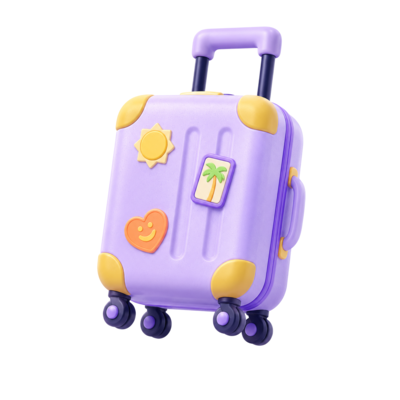
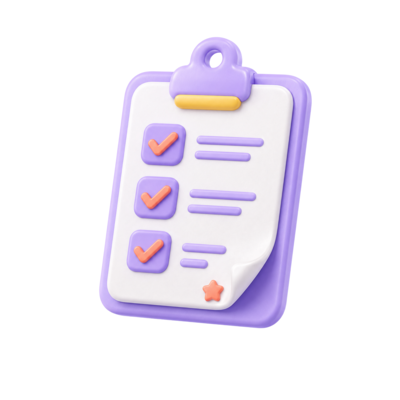
Tighten Сфера digest layout to match Figma
Hero now matches the Figma composition: logos in a top row, large
composite illustration (suitcase + hat + coconut drink) in the middle,
«Привет!» headline at the bottom. Replaces the lonely cloud with the
right assets in the hero and the checklist promo (clipboard-with-checks
illustration). Avatar+role+name in each expert block laid out as
avatar-left / chips-right via inline table inside mj-text. Bumps the gap
between expert cards in «Про отпуск» to 36px and События card radius to
24px to match the source.

Changed region(s): [[0.24, 0.06, 0.78, 0.87]]

diff --git a/emails/dist/main.html b/emails/dist/main.html
@@ -59,9 +59,14 @@
     <![endif]-->
   <style type="text/css">
     @media only screen and (min-width:480px) {
-      .mj-column-per-50 {
-        width: 50% !important;
-        max-width: 50%;
+      .mj-column-per-40 {
+        width: 40% !important;
+        max-width: 40%;
+      }
+
+      .mj-column-per-60 {
+        width: 60% !important;
+        max-width: 60%;
       }
 
       .mj-column-per-100 {
@@ -88,13 +93,23 @@
         width: 38% !important;
         max-width: 38%;
       }
+
+      .mj-column-per-50 {
+        width: 50% !important;
+        max-width: 50%;
+      }
     }
 
   </style>
   <style media="screen and (min-width:480px)">
-    .moz-text-html .mj-column-per-50 {
-      width: 50% !important;
-      max-width: 50%;
+    .moz-text-html .mj-column-per-40 {
+      width: 40% !important;
+      max-width: 40%;
+    }
+
+    .moz-text-html .mj-column-per-60 {
+      width: 60% !important;
+      max-width: 60%;
     }
 
     .moz-text-html .mj-column-per-100 {
@@ -120,6 +135,11 @@
     .moz-text-html .mj-column-per-38 {
       width: 38% !important;
       max-width: 38%;
+    }
+
+    .moz-text-html .mj-column-per-50 {
+      width: 50% !important;
+      max-width: 50%;
     }
 
   </style>
@@ -172,19 +192,19 @@
       <table align="center" border="0" cellpadding="0" cellspacing="0" role="presentation" style="background:#ffffff;background-color:#ffffff;width:100%;border-collapse:separate;">
         <tbody>
           <tr>
-            <td style="border-radius:24px;direction:ltr;font-size:0px;padding:24px 24px 24px 24px;text-align:center;">
-              <!--[if mso | IE]><table role="presentation" border="0" cellpadding="0" cellspacing="0"><tr><td class="" width="600px" ><table align="center" border="0" cellpadding="0" cellspacing="0" class="" role="presentation" style="width:552px;" width="552" ><tr><td style="line-height:0px;font-size:0px;mso-line-height-rule:exactly;"><![endif]-->
-              <div style="margin:0px auto;max-width:552px;">
+            <td style="border-radius:24px;direction:ltr;font-size:0px;padding:32px 32px 24px 32px;text-align:center;">
+              <!--[if mso | IE]><table role="presentation" border="0" cellpadding="0" cellspacing="0"><tr><td class="" width="600px" ><table align="center" border="0" cellpadding="0" cellspacing="0" class="" role="presentation" style="width:536px;" width="536" ><tr><td style="line-height:0px;font-size:0px;mso-line-height-rule:exactly;"><![endif]-->
+              <div style="margin:0px auto;max-width:536px;">
                 <table align="center" border="0" cellpadding="0" cellspacing="0" role="presentation" style="width:100%;">
                   <tbody>
                     <tr>
                       <td style="direction:ltr;font-size:0px;padding:0 0 16px 0;text-align:center;">
-                        <!--[if mso | IE]><table role="presentation" border="0" cellpadding="0" cellspacing="0"><tr><td class="" style="vertical-align:middle;width:276px;" ><![endif]-->
-                        <div class="mj-column-per-50 mj-outlook-group-fix" style="font-size:0px;text-align:left;direction:ltr;display:inline-block;vertical-align:middle;width:100%;">
+                        <!--[if mso | IE]><table role="presentation" border="0" cellpadding="0" cellspacing="0"><tr><td class="" style="vertical-align:middle;width:214.4px;" ><![endif]-->
+                        <div class="mj-column-per-40 mj-outlook-group-fix" style="font-size:0px;text-align:left;direction:ltr;display:inline-block;vertical-align:middle;width:100%;">
                           <table border="0" cellpadding="0" cellspacing="0" role="presentation" style="vertical-align:middle;" width="100%">
                             <tbody>
                               <tr>
-                                <td align="left" style="font-size:0px;padding:0 0 16px 0;word-break:break-word;">
+                                <td align="left" style="font-size:0px;padding:0;word-break:break-word;">
                                   <table border="0" cellpadding="0" cellspacing="0" role="presentation" style="border-collapse:collapse;border-spacing:0px;">
                                     <tbody>
                                       <tr>
@@ -196,38 +216,20 @@
                                   </table>
                                 </td>
                               </tr>
-                              <tr>
-                                <td align="left" style="font-size:0px;padding:16px 0 0 0;word-break:break-word;">
-                                  <div style="font-family:Arial, Helvetica, sans-serif;font-size:42px;font-weight:bold;line-height:1;text-align:left;color:rgba(0,0,0,0.8);">Привет!</div>
-                                </td>
-                              </tr>
                             </tbody>
                           </table>
                         </div>
-                        <!--[if mso | IE]></td><td class="" style="vertical-align:middle;width:276px;" ><![endif]-->
-                        <div class="mj-column-per-50 mj-outlook-group-fix" style="font-size:0px;text-align:left;direction:ltr;display:inline-block;vertical-align:middle;width:100%;">
+                        <!--[if mso | IE]></td><td class="" style="vertical-align:middle;width:321.6px;" ><![endif]-->
+                        <div class="mj-column-per-60 mj-outlook-group-fix" style="font-size:0px;text-align:left;direction:ltr;display:inline-block;vertical-align:middle;width:100%;">
                           <table border="0" cellpadding="0" cellspacing="0" role="presentation" style="vertical-align:middle;" width="100%">
                             <tbody>
-                              <tr>
-                                <td align="right" style="font-size:0px;padding:0 0 8px 0;word-break:break-word;">
-                                  <table border="0" cellpadding="0" cellspacing="0" role="presentation" style="border-collapse:collapse;border-spacing:0px;">
-                                    <tbody>
-                                      <tr>
-                                        <td style="width:140px;">
-                                          <img alt="Сфера" src="../assets/logo-sfera.png" style="border:0;display:block;outline:none;text-decoration:none;height:auto;width:100%;font-size:13px;" width="140" height="auto" />
-                                        </td>
-                                      </tr>
-                                    </tbody>
-                                  </table>
-                                </td>
-                              </tr>
                               <tr>
                                 <td align="right" style="font-size:0px;padding:0;word-break:break-word;">
                                   <table border="0" cellpadding="0" cellspacing="0" role="presentation" style="border-collapse:collapse;border-spacing:0px;">
                                     <tbody>
                                       <tr>
-                                        <td style="width:220px;">
-                                          <img alt="Иллюстрация — лето в Сфере" src="../assets/hero.png" style="border:0;display:block;outline:none;text-decoration:none;height:auto;width:100%;font-size:13px;" width="220" height="auto" />
+                                        <td style="width:140px;">
+                                          <img alt="Сфера" src="../assets/logo-sfera.png" style="border:0;display:block;outline:none;text-decoration:none;height:auto;width:100%;font-size:13px;" width="140" height="auto" />
                                         </td>
                                       </tr>
                                     </tbody>
@@ -243,13 +245,69 @@
                   </tbody>
                 </table>
               </div>
-              <!--[if mso | IE]></td></tr></table></td></tr><tr><td class="" width="600px" ><table align="center" border="0" cellpadding="0" cellspacing="0" class="" role="presentation" style="width:552px;" width="552" ><tr><td style="line-height:0px;font-size:0px;mso-line-height-rule:exactly;"><![endif]-->
-              <div style="margin:0px auto;max-width:552px;">
+              <!--[if mso | IE]></td></tr></table></td></tr><tr><td class="" width="600px" ><table align="center" border="0" cellpadding="0" cellspacing="0" class="" role="presentation" style="width:536px;" width="536" ><tr><td style="line-height:0px;font-size:0px;mso-line-height-rule:exactly;"><![endif]-->
+              <div style="margin:0px auto;max-width:536px;">
+                <table align="center" border="0" cellpadding="0" cellspacing="0" role="presentation" style="width:100%;">
+                  <tbody>
+                    <tr>
+                      <td style="direction:ltr;font-size:0px;padding:0;text-align:center;">
+                        <!--[if mso | IE]><table role="presentation" border="0" cellpadding="0" cellspacing="0"><tr><td class="" style="vertical-align:top;width:536px;" ><![endif]-->
+                        <div class="mj-column-per-100 mj-outlook-group-fix" style="font-size:0px;text-align:left;direction:ltr;display:inline-block;vertical-align:top;width:100%;">
+                          <table border="0" cellpadding="0" cellspacing="0" role="presentation" style="vertical-align:top;" width="100%">
+                            <tbody>
+                              <tr>
+                                <td align="center" style="font-size:0px;padding:0;word-break:break-word;">
+                                  <table border="0" cellpadding="0" cellspacing="0" role="presentation" style="border-collapse:collapse;border-spacing:0px;">
+                                    <tbody>
+                                      <tr>
+                                        <td style="width:320px;">
+                                          <img alt="Иллюстрация — лето в Сфере" src="../assets/hero.png" style="border:0;display:block;outline:none;text-decoration:none;height:auto;width:100%;font-size:13px;" width="320" height="auto" />
+                                        </td>
+                                      </tr>
+                                    </tbody>
+                                  </table>
+                                </td>
+                              </tr>
+                            </tbody>
+                          </table>
+                        </div>
+                        <!--[if mso | IE]></td></tr></table><![endif]-->
+                      </td>
+                    </tr>
+                  </tbody>
+                </table>
+              </div>
+              <!--[if mso | IE]></td></tr></table></td></tr><tr><td class="" width="600px" ><table align="center" border="0" cellpadding="0" cellspacing="0" class="" role="presentation" style="width:536px;" width="536" ><tr><td style="line-height:0px;font-size:0px;mso-line-height-rule:exactly;"><![endif]-->
+              <div style="margin:0px auto;max-width:536px;">
+                <table align="center" border="0" cellpadding="0" cellspacing="0" role="presentation" style="width:100%;">
+                  <tbody>
+                    <tr>
+                      <td style="direction:ltr;font-size:0px;padding:0 0 8px 0;text-align:center;">
+                        <!--[if mso | IE]><table role="presentation" border="0" cellpadding="0" cellspacing="0"><tr><td class="" style="vertical-align:top;width:536px;" ><![endif]-->
+                        <div class="mj-column-per-100 mj-outlook-group-fix" style="font-size:0px;text-align:left;direction:ltr;display:inline-block;vertical-align:top;width:100%;">
+                          <table border="0" cellpadding="0" cellspacing="0" role="presentation" style="vertical-align:top;" width="100%">
+                            <tbody>
+                              <tr>
+                                <td align="left" style="font-size:0px;padding:8px 0 0 0;word-break:break-word;">
+                                  <div style="font-family:Arial, Helvetica, sans-serif;font-size:42px;font-weight:bold;line-height:1;text-align:left;color:rgba(0,0,0,0.8);">Привет!</div>
+                                </td>
+                              </tr>
+                            </tbody>
+                          </table>
+                        </div>
+                        <!--[if mso | IE]></td></tr></table><![endif]-->
+                      </td>
+                    </tr>
+                  </tbody>
+                </table>
+              </div>
+              <!--[if mso | IE]></td></tr></table></td></tr><tr><td class="" width="600px" ><table align="center" border="0" cellpadding="0" cellspacing="0" class="" role="presentation" style="width:536px;" width="536" ><tr><td style="line-height:0px;font-size:0px;mso-line-height-rule:exactly;"><![endif]-->
+              <div style="margin:0px auto;max-width:536px;">
                 <table align="center" border="0" cellpadding="0" cellspacing="0" role="presentation" style="width:100%;">
                   <tbody>
                     <tr>
                       <td style="direction:ltr;font-size:0px;padding:0 0 18px 0;text-align:center;">
-                        <!--[if mso | IE]><table role="presentation" border="0" cellpadding="0" cellspacing="0"><tr><td class="" style="vertical-align:top;width:552px;" ><![endif]-->
+                        <!--[if mso | IE]><table role="presentation" border="0" cellpadding="0" cellspacing="0"><tr><td class="" style="vertical-align:top;width:536px;" ><![endif]-->
                         <div class="mj-column-per-100 mj-outlook-group-fix" style="font-size:0px;text-align:left;direction:ltr;display:inline-block;vertical-align:top;width:100%;">
                           <table border="0" cellpadding="0" cellspacing="0" role="presentation" style="vertical-align:top;" width="100%">
                             <tbody>
@@ -280,13 +338,13 @@
                   </tbody>
                 </table>
               </div>
-              <!--[if mso | IE]></td></tr></table></td></tr><tr><td class="" width="600px" ><table align="center" border="0" cellpadding="0" cellspacing="0" class="" role="presentation" style="width:552px;" width="552" bgcolor="#f0e9ff" ><tr><td style="line-height:0px;font-size:0px;mso-line-height-rule:exactly;"><![endif]-->
-              <div style="background:#f0e9ff;background-color:#f0e9ff;margin:0px auto;max-width:552px;border-radius:20px;overflow:hidden;">
+              <!--[if mso | IE]></td></tr></table></td></tr><tr><td class="" width="600px" ><table align="center" border="0" cellpadding="0" cellspacing="0" class="" role="presentation" style="width:536px;" width="536" bgcolor="#f0e9ff" ><tr><td style="line-height:0px;font-size:0px;mso-line-height-rule:exactly;"><![endif]-->
+              <div style="background:#f0e9ff;background-color:#f0e9ff;margin:0px auto;max-width:536px;border-radius:20px;overflow:hidden;">
                 <table align="center" border="0" cellpadding="0" cellspacing="0" role="presentation" style="background:#f0e9ff;background-color:#f0e9ff;width:100%;border-collapse:separate;">
                   <tbody>
                     <tr>
                       <td style="border-radius:20px;direction:ltr;font-size:0px;padding:20px;text-align:center;">
-                        <!--[if mso | IE]><table role="presentation" border="0" cellpadding="0" cellspacing="0"><tr><td class="" style="vertical-align:top;width:512px;" ><![endif]-->
+                        <!--[if mso | IE]><table role="presentation" border="0" cellpadding="0" cellspacing="0"><tr><td class="" style="vertical-align:top;width:496px;" ><![endif]-->
                         <div class="mj-column-per-100 mj-outlook-group-fix" style="font-size:0px;text-align:left;direction:ltr;display:inline-block;vertical-align:top;width:100%;">
                           <table border="0" cellpadding="0" cellspacing="0" role="presentation" style="vertical-align:top;" width="100%">
                             <tbody>
@@ -371,7 +429,7 @@
                 <table align="center" border="0" cellpadding="0" cellspacing="0" role="presentation" style="width:100%;">
                   <tbody>
                     <tr>
-                      <td style="direction:ltr;font-size:0px;padding:0 4px 16px 4px;text-align:center;">
+                      <td style="direction:ltr;font-size:0px;padding:0 4px 36px 4px;text-align:center;">
                         <!--[if mso | IE]><table role="presentation" border="0" cellpadding="0" cellspacing="0"><tr><td class="" style="vertical-align:top;width:552px;" ><![endif]-->
                         <div class="mj-column-per-100 mj-outlook-group-fix" style="font-size:0px;text-align:left;direction:ltr;display:inline-block;vertical-align:top;width:100%;">
                           <table border="0" cellpadding="0" cellspacing="0" role="presentation" style="vertical-align:top;" width="100%">
@@ -409,25 +467,19 @@
                               </tr>
                               <tr>
                                 <td align="left" style="font-size:0px;padding:0 0 12px 0;word-break:break-word;">
-                                  <table border="0" cellpadding="0" cellspacing="0" role="presentation" style="border-collapse:collapse;border-spacing:0px;">
-                                    <tbody>
+                                  <div style="font-family:Arial, Helvetica, sans-serif;font-size:16px;line-height:1.4;text-align:left;color:#1f2426;">
+                                    <table cellpadding="0" cellspacing="0" role="presentation" style="width:100%;">
                                       <tr>
-                                        <td style="width:96px;">
-                                          <img alt="Ольга Кирюточкина" src="../assets/avatar-olga.png" style="border:0;border-radius:48px;display:block;outline:none;text-decoration:none;height:auto;width:100%;font-size:13px;" width="96" height="auto" />
+                                        <td valign="top" width="112" style="padding:0 14px 0 0;">
+                                          <img src="../assets/avatar-olga.png" alt="Ольга Кирюточкина" width="96" height="96" style="display:block;border-radius:48px;border:0;" />
+                                        </td>
+                                        <td valign="middle">
+                                          <div style="margin:0 0 6px 0;"><span class="chip">Руководитель группы развития и оптимизации проектов</span></div>
+                                          <div><span class="chip">Ольга Кирюточкина</span></div>
                                         </td>
                                       </tr>
-                                    </tbody>
-                                  </table>
-                                </td>
-                              </tr>
-                              <tr>
-                                <td align="left" style="font-size:0px;padding:0 0 4px 0;word-break:break-word;">
-                                  <div style="font-family:Arial, Helvetica, sans-serif;font-size:16px;line-height:1.4;text-align:left;color:#1f2426;"><span class="chip">Руководитель группы развития и оптимизации проектов</span></div>
-                                </td>
-                              </tr>
-                              <tr>
-                                <td align="left" style="font-size:0px;padding:0 0 12px 0;word-break:break-word;">
-                                  <div style="font-family:Arial, Helvetica, sans-serif;font-size:16px;line-height:1.4;text-align:left;color:#1f2426;"><span class="chip">Ольга Кирюточкина</span></div>
+                                    </table>
+                                  </div>
                                 </td>
                               </tr>
                               <tr>
@@ -496,7 +548,7 @@
                 <table align="center" border="0" cellpadding="0" cellspacing="0" role="presentation" style="width:100%;">
                   <tbody>
                     <tr>
-                      <td style="direction:ltr;font-size:0px;padding:16px 0 0 0;text-align:center;">
+                      <td style="direction:ltr;font-size:0px;padding:36px 0 0 0;text-align:center;">
                         <!--[if mso | IE]><table role="presentation" border="0" cellpadding="0" cellspacing="0"><tr><td class="" style="vertical-align:top;width:560px;" ><![endif]-->
                         <div class="mj-column-per-100 mj-outlook-group-fix" style="font-size:0px;text-align:left;direction:ltr;display:inline-block;vertical-align:top;width:100%;">
                           <table border="0" cellpadding="0" cellspacing="0" role="presentation" style="vertical-align:top;" width="100%">
@@ -533,26 +585,20 @@
                                 </td>
                               </tr>
                               <tr>
-                                <td align="left" style="font-size:0px;padding:0 0 12px 0;word-break:break-word;">
-                                  <table border="0" cellpadding="0" cellspacing="0" role="presentation" style="border-collapse:collapse;border-spacing:0px;">
-                                    <tbody>
+                                <td align="left" style="font-size:0px;padding:0 0 16px 0;word-break:break-word;">
+                                  <div style="font-family:Arial, Helvetica, sans-serif;font-size:16px;line-height:1.4;text-align:left;color:#1f2426;">
+                                    <table cellpadding="0" cellspacing="0" role="presentation" style="width:100%;">
                                       <tr>
-                                        <td style="width:96px;">
-                                          <img alt="Сергей Гринченко" src="../assets/avatar-sergey.png" style="border:0;border-radius:48px;display:block;outline:none;text-decoration:none;height:auto;width:100%;font-size:13px;" width="96" height="auto" />
+                                        <td valign="top" width="112" style="padding:0 14px 0 0;">
+                                          <img src="../assets/avatar-sergey.png" alt="Сергей Гринченко" width="96" height="96" style="display:block;border-radius:48px;border:0;" />
+                                        </td>
+                                        <td valign="middle">
+                                          <div style="margin:0 0 6px 0;"><span class="chip">Архитектор решений Яндекс 360, руководитель группы партнёрской и региональной архитектуры</span></div>
+                                          <div><span class="chip">Сергей Гринченко</span></div>
                                         </td>
                                       </tr>
-                                    </tbody>
-                                  </table>
-                                </td>
-                              </tr>
-                              <tr>
-                                <td align="left" style="font-size:0px;padding:0 0 4px 0;word-break:break-word;">
-                                  <div style="font-family:Arial, Helvetica, sans-serif;font-size:16px;line-height:1.4;text-align:left;color:#1f2426;"><span class="chip">Архитектор решений Яндекс 360, руководитель группы партнёрской и региональной архитектуры</span></div>
-                                </td>
-                              </tr>
-                              <tr>
-                                <td align="left" style="font-size:0px;padding:0 0 16px 0;word-break:break-word;">
-                                  <div style="font-family:Arial, Helvetica, sans-serif;font-size:16px;line-height:1.4;text-align:left;color:#1f2426;"><span class="chip">Сергей Гринченко</span></div>
+                                    </table>
+                                  </div>
                                 </td>
                               </tr>
                               <tr>
@@ -608,7 +654,7 @@
                 <table align="center" border="0" cellpadding="0" cellspacing="0" role="presentation" style="width:100%;">
                   <tbody>
                     <tr>
-                      <td style="direction:ltr;font-size:0px;padding:16px 0 0 0;text-align:center;">
+                      <td style="direction:ltr;font-size:0px;padding:36px 0 0 0;text-align:center;">
                         <!--[if mso | IE]><table role="presentation" border="0" cellpadding="0" cellspacing="0"><tr><td class="" style="vertical-align:top;width:560px;" ><![endif]-->
                         <div class="mj-column-per-100 mj-outlook-group-fix" style="font-size:0px;text-align:left;direction:ltr;display:inline-block;vertical-align:top;width:100%;">
                           <table border="0" cellpadding="0" cellspacing="0" role="presentation" style="vertical-align:top;" width="100%">
@@ -645,26 +691,20 @@
                                 </td>
                               </tr>
                               <tr>
-                                <td align="left" style="font-size:0px;padding:0 0 12px 0;word-break:break-word;">
-                                  <table border="0" cellpadding="0" cellspacing="0" role="presentation" style="border-collapse:collapse;border-spacing:0px;">
-                                    <tbody>
+                                <td align="left" style="font-size:0px;padding:0 0 16px 0;word-break:break-word;">
+                                  <div style="font-family:Arial, Helvetica, sans-serif;font-size:16px;line-height:1.4;text-align:left;color:#1f2426;">
+                                    <table cellpadding="0" cellspacing="0" role="presentation" style="width:100%;">
                                       <tr>
-                                        <td style="width:96px;">
-                                          <img alt="Веста Нестерова" src="../assets/avatar-vesta.png" style="border:0;border-radius:48px;display:block;outline:none;text-decoration:none;height:auto;width:100%;font-size:13px;" width="96" height="auto" />
+                                        <td valign="top" width="112" style="padding:0 14px 0 0;">
+                                          <img src="../assets/avatar-vesta.png" alt="Веста Нестерова" width="96" height="96" style="display:block;border-radius:48px;border:0;" />
+                                        </td>
+                                        <td valign="middle">
+                                          <div style="margin:0 0 6px 0;"><span class="chip">Лид команды Сигма</span></div>
+                                          <div><span class="chip">Веста Нестерова</span></div>
                                         </td>
                                       </tr>
-                                    </tbody>
-                                  </table>
-                                </td>
-                              </tr>
-                              <tr>
-                                <td align="left" style="font-size:0px;padding:0 0 4px 0;word-break:break-word;">
-                                  <div style="font-family:Arial, Helvetica, sans-serif;font-size:16px;line-height:1.4;text-align:left;color:#1f2426;"><span class="chip">Лид команды Сигма</span></div>
-                                </td>
-                              </tr>
-                              <tr>
-                                <td align="left" style="font-size:0px;padding:0 0 16px 0;word-break:break-word;">
-                                  <div style="font-family:Arial, Helvetica, sans-serif;font-size:16px;line-height:1.4;text-align:left;color:#1f2426;"><span class="chip">Веста Нестерова</span></div>
+                                    </table>
+                                  </div>
                                 </td>
                               </tr>
                               <tr>
@@ -828,11 +868,11 @@
     <!--[if mso | IE]></td></tr></table><![endif]-->
     <!-- ============== EVENTS ============== -->
     <!--[if mso | IE]><table align="center" border="0" cellpadding="0" cellspacing="0" class="events-outlook" role="presentation" style="width:600px;" width="600" bgcolor="#9261ff" ><tr><td style="line-height:0px;font-size:0px;mso-line-height-rule:exactly;"><![endif]-->
-    <div class="events" style="background:#9261ff;background-color:#9261ff;margin:0px auto;max-width:600px;border-radius:20px;overflow:hidden;">
+    <div class="events" style="background:#9261ff;background-color:#9261ff;margin:0px auto;max-width:600px;border-radius:24px;overflow:hidden;">
       <table align="center" border="0" cellpadding="0" cellspacing="0" role="presentation" style="background:#9261ff;background-color:#9261ff;width:100%;border-collapse:separate;">
         <tbody>
           <tr>
-            <td style="border-radius:20px;direction:ltr;font-size:0px;padding:24px;text-align:center;">
+            <td style="border-radius:24px;direction:ltr;font-size:0px;padding:24px;text-align:center;">
               <!--[if mso | IE]><table role="presentation" border="0" cellpadding="0" cellspacing="0"><tr><td class="" width="600px" ><table align="center" border="0" cellpadding="0" cellspacing="0" class="" role="presentation" style="width:552px;" width="552" ><tr><td style="line-height:0px;font-size:0px;mso-line-height-rule:exactly;"><![endif]-->
               <div style="margin:0px auto;max-width:552px;">
                 <table align="center" border="0" cellpadding="0" cellspacing="0" role="presentation" style="width:100%;">
